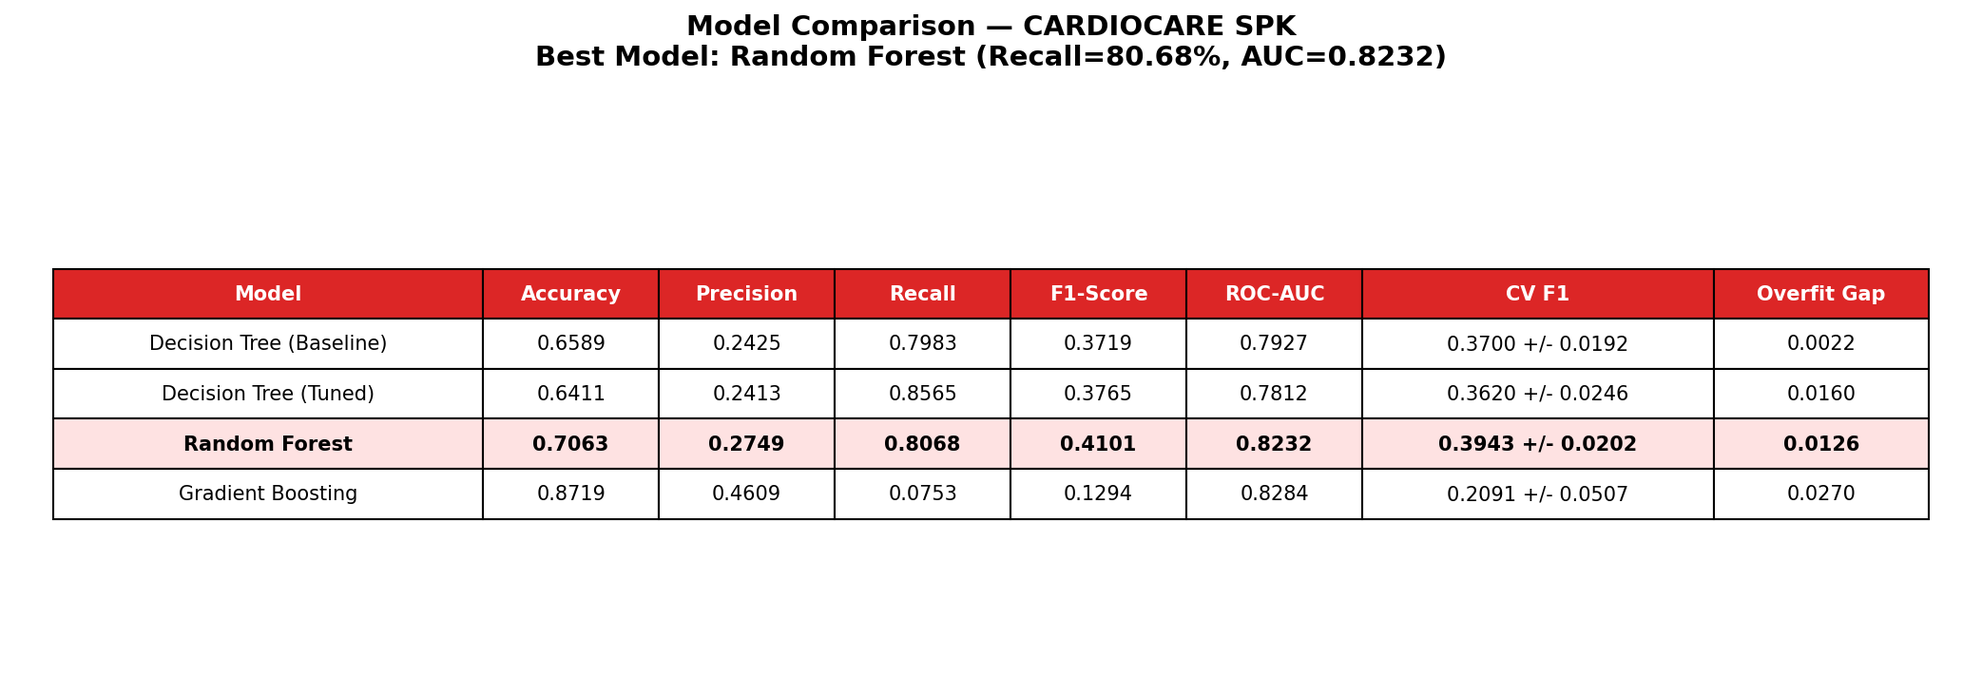
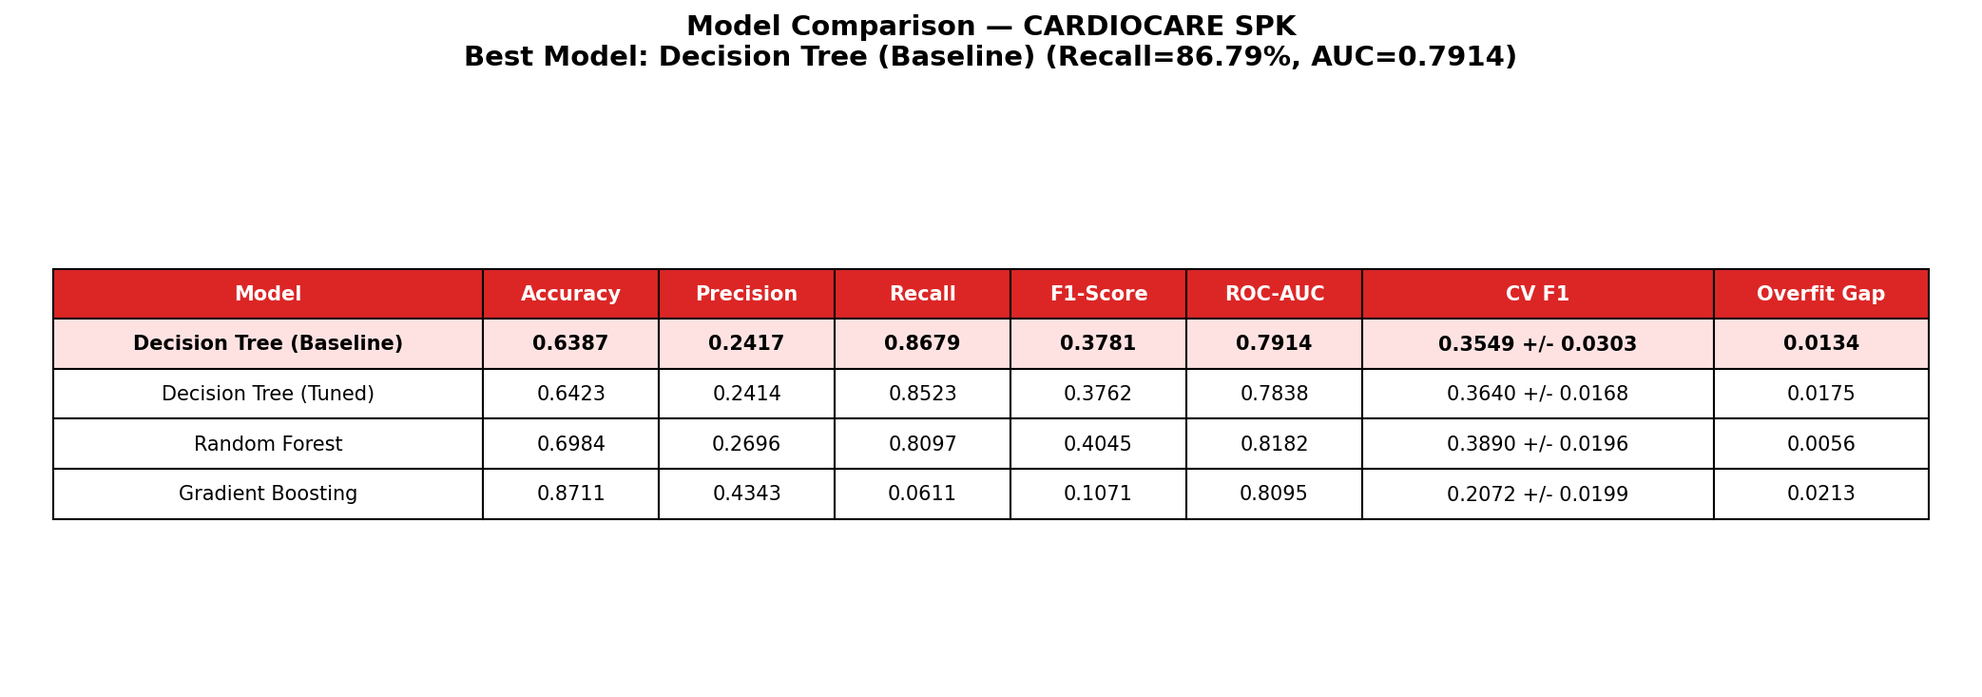
perf(model): update decision tree model with refined thresholds and structure
- Adjust model meta metrics: accuracy, precision, recall, f1_score, roc_auc
- Modify decision tree thresholds for features to improve prediction accuracy
- Restructure tree nodes for better classification performance
- Update leaf node probabilities and class assignments accordingly

Changed region(s): [[0.0, 0.6003, 0.9976, 0.7203], [0.0, 0.4502, 0.9976, 0.5703], [0.2182, 0.06, 0.7794, 0.1201]]

diff --git a/frontend/js/model.js b/frontend/js/model.js
@@ -3,18 +3,18 @@
 const FEATURE_NAMES = ["usia", "gender", "keluhanawal_sesak_dada", "bmi", "sistolik", "diastolik"];
 const CLASS_NAMES = ["Tidak Risiko (0)", "Risiko Jantung (1)"];
 const MODEL_META = {
-  "accuracy": 0.6588785046728972,
-  "precision": 0.24245038826574633,
-  "recall": 0.7982954545454546,
-  "f1_score": 0.37193911317008604,
-  "roc_auc": 0.7926650766928545,
+  "accuracy": 0.6387491013659238,
+  "precision": 0.24169303797468356,
+  "recall": 0.8678977272727273,
+  "f1_score": 0.3780940594059406,
+  "roc_auc": 0.7913599244762439,
   "train_size": 22253,
   "test_size": 5564,
   "tree_depth": 7,
   "n_leaves": 103
 };
 
-const TREE = {"feature": 0, "threshold": 38.33, "left": {"feature": 4, "threshold": 124.5, "left": {"feature": 0, "threshold": 24.18, "left": {"feature": 2, "threshold": 0.5, "left": {"feature": 0, "threshold": 11.21, "left": {"leaf": true, "class": 0, "proba": [1.0, 0.0]}, "right": {"feature": 3, "threshold": 14.34, "left": {"leaf": true, "class": 0, "proba": [0.67, 0.33]}, "right": {"feature": 4, "threshold": 82.5, "left": {"leaf": true, "class": 0, "proba": [0.67, 0.33]}, "right": {"leaf": true, "class": 0, "proba": [1.0, 0.0]}}}}, "right": {"feature": 4, "threshold": 116.5, "left": {"feature": 5, "threshold": 65.5, "left": {"leaf": true, "class": 0, "proba": [1.0, 0.0]}, "right": {"leaf": true, "class": 0, "proba": [1.0, 0.0]}}, "right": {"leaf": true, "class": 0, "proba": [0.5521, 0.4479]}}}, "right": {"feature": 1, "threshold": 0.5, "left": {"feature": 3, "threshold": 19.505, "left": {"leaf": true, "class": 0, "proba": [1.0, 0.0]}, "right": {"feature": 4, "threshold": 118.5, "left": {"feature": 0, "threshold": 29.725, "left": {"leaf": true, "class": 0, "proba": [1.0, 0.0]}, "right": {"leaf": true, "class": 0, "proba": [0.7159, 0.2841]}}, "right": {"feature": 4, "threshold": 122.5, "left": {"leaf": true, "class": 0, "proba": [0.5662, 0.4338]}, "right": {"leaf": true, "class": 0, "proba": [0.8788, 0.1212]}}}}, "right": {"feature": 3, "threshold": 20.315, "left": {"feature": 4, "threshold": 88.5, "left": {"feature": 3, "threshold": 18.92, "left": {"leaf": true, "class": 0, "proba": [0.6988, 0.3012]}, "right": {"leaf": true, "class": 1, "proba": [0.3671, 0.6329]}}, "right": {"feature": 0, "threshold": 36.005, "left": {"leaf": true, "class": 0, "proba": [0.955, 0.045]}, "right": {"leaf": true, "class": 1, "proba": [0.3859, 0.6141]}}}, "right": {"feature": 0, "threshold": 27.465, "left": {"leaf": true, "class": 0, "proba": [1.0, 0.0]}, "right": {"feature": 5, "threshold": 90.5, "left": {"leaf": true, "class": 0, "proba": [0.9742, 0.0258]}, "right": {"leaf": true, "class": 0, "proba": [0.8464, 0.1536]}}}}}}, "right": {"feature": 0, "threshold": 32.895, "left": {"feature": 4, "threshold": 134.5, "left": {"feature": 1, "threshold": 0.5, "left": {"feature": 4, "threshold": 128.5, "left": {"feature": 0, "threshold": 18.78, "left": {"leaf": true, "class": 0, "proba": [1.0, 0.0]}, "right": {"leaf": true, "class": 0, "proba": [0.5738, 0.4262]}}, "right": {"feature": 3, "threshold": 28.88, "left": {"leaf": true, "class": 0, "proba": [1.0, 0.0]}, "right": {"leaf": true, "class": 0, "proba": [0.67, 0.33]}}}, "right": {"feature": 5, "threshold": 84.5, "left": {"leaf": true, "class": 0, "proba": [1.0, 0.0]}, "right": {"feature": 3, "threshold": 30.95, "left": {"leaf": true, "class": 0, "proba": [0.8915, 0.1085]}, "right": {"leaf": true, "class": 0, "proba": [1.0, 0.0]}}}}, "right": {"feature": 3, "threshold": 23.175, "left": {"feature": 4, "threshold": 137.5, "left": {"leaf": true, "class": 0, "proba": [0.7965, 0.2035]}, "right": {"leaf": true, "class": 0, "proba": [1.0, 0.0]}}, "right": {"feature": 0, "threshold": 32.12, "left": {"feature": 0, "threshold": 30.455, "left": {"leaf": true, "class": 0, "proba": [0.7018, 0.2982]}, "right": {"leaf": true, "class": 1, "proba": [0.3618, 0.6382]}}, "right": {"feature": 0, "threshold": 32.25, "left": {"leaf": true, "class": 0, "proba": [1.0, 0.0]}, "right": {"leaf": true, "class": 0, "proba": [1.0, 0.0]}}}}}, "right": {"feature": 3, "threshold": 26.38, "left": {"feature": 5, "threshold": 89.5, "left": {"feature": 0, "threshold": 33.49, "left": {"leaf": true, "class": 0, "proba": [0.67, 0.33]}, "right": {"leaf": true, "class": 0, "proba": [1.0, 0.0]}}, "right": {"feature": 4, "threshold": 149.0, "left": {"feature": 3, "threshold": 23.825, "left": {"leaf": true, "class": 1, "proba": [0.3797, 0.6203]}, "right": {"leaf": true, "class": 0, "proba": [1.0, 0.0]}}, "right": {"leaf": true, "class": 0, "proba": [1.0, 0.0]}}}, "right": {"feature": 1, "threshold": 0.5, "left": {"feature": 4, "threshold": 146.5, "left": {"feature": 4, "threshold": 130.5, "left": {"leaf": true, "class": 1, "proba": [0.2582, 0.7418]}, "right": {"leaf": true, "class": 0, "proba": [0.5794, 0.4206]}}, "right": {"leaf": true, "class": 1, "proba": [0.1142, 0.8858]}}, "right": {"feature": 3, "threshold": 28.89, "left": {"feature": 3, "threshold": 26.92, "left": {"leaf": true, "class": 0, "proba": [0.67, 0.33]}, "right": {"leaf": true, "class": 0, "proba": [1.0, 0.0]}}, "right": {"feature": 0, "threshold": 35.09, "left": {"leaf": true, "class": 0, "proba": [0.7114, 0.2886]}, "right": {"leaf": true, "class": 1, "proba": [0.4361, 0.5639]}}}}}}}, "right": {"feature": 1, "threshold": 0.5, "left": {"feature": 3, "threshold": 25.795, "left": {"feature": 0, "threshold": 60.265, "left": {"feature": 4, "threshold": 179.5, "left": {"feature": 5, "threshold": 91.5, "left": {"feature": 0, "threshold": 43.745, "left": {"leaf": true, "class": 0, "proba": [0.6602, 0.3398]}, "right": {"leaf": true, "class": 1, "proba": [0.4324, 0.5676]}}, "right": {"feature": 0, "threshold": 48.78, "left": {"leaf": true, "class": 1, "proba": [0.4233, 0.5767]}, "right": {"leaf": true, "class": 1, "proba": [0.2264, 0.7736]}}}, "right": {"feature": 5, "threshold": 94.5, "left": {"leaf": true, "class": 0, "proba": [1.0, 0.0]}, "right": {"feature": 3, "threshold": 23.745, "left": {"leaf": true, "class": 1, "proba": [0.4492, 0.5508]}, "right": {"leaf": true, "class": 0, "proba": [1.0, 0.0]}}}}, "right": {"feature": 3, "threshold": 23.02, "left": {"feature": 5, "threshold": 77.5, "left": {"feature": 0, "threshold": 70.69, "left": {"leaf": true, "class": 1, "proba": [0.1976, 0.8024]}, "right": {"leaf": true, "class": 1, "proba": [0.343, 0.657]}}, "right": {"feature": 4, "threshold": 129.5, "left": {"leaf": true, "class": 1, "proba": [0.4796, 0.5204]}, "right": {"leaf": true, "class": 1, "proba": [0.2907, 0.7093]}}}, "right": {"feature": 0, "threshold": 71.73, "left": {"feature": 0, "threshold": 60.405, "left": {"leaf": true, "class": 1, "proba": [0.451, 0.549]}, "right": {"leaf": true, "class": 1, "proba": [0.2019, 0.7981]}}, "right": {"feature": 0, "threshold": 75.13, "left": {"leaf": true, "class": 0, "proba": [0.555, 0.445]}, "right": {"leaf": true, "class": 1, "proba": [0.2059, 0.7941]}}}}}, "right": {"feature": 3, "threshold": 28.99, "left": {"feature": 0, "threshold": 55.165, "left": {"feature": 4, "threshold": 121.5, "left": {"feature": 4, "threshold": 118.5, "left": {"leaf": true, "class": 0, "proba": [0.5958, 0.4042]}, "right": {"leaf": true, "class": 0, "proba": [1.0, 0.0]}}, "right": {"feature": 5, "threshold": 73.0, "left": {"leaf": true, "class": 0, "proba": [1.0, 0.0]}, "right": {"leaf": true, "class": 1, "proba": [0.3142, 0.6858]}}}, "right": {"feature": 3, "threshold": 28.395, "left": {"feature": 5, "threshold": 91.5, "left": {"leaf": true, "class": 1, "proba": [0.2324, 0.7676]}, "right": {"leaf": true, "class": 1, "proba": [0.107, 0.893]}}, "right": {"feature": 0, "threshold": 69.425, "left": {"leaf": true, "class": 0, "proba": [0.5521, 0.4479]}, "right": {"leaf": true, "class": 1, "proba": [0.246, 0.754]}}}}, "right": {"feature": 0, "threshold": 71.295, "left": {"feature": 0, "threshold": 62.555, "left": {"feature": 5, "threshold": 97.5, "left": {"leaf": true, "class": 1, "proba": [0.2183, 0.7817]}, "right": {"leaf": true, "class": 1, "proba": [0.1176, 0.8824]}}, "right": {"feature": 0, "threshold": 63.815, "left": {"leaf": true, "class": 1, "proba": [0.0501, 0.9499]}, "right": {"leaf": true, "class": 1, "proba": [0.162, 0.838]}}}, "right": {"feature": 0, "threshold": 74.715, "left": {"leaf": true, "class": 0, "proba": [0.6251, 0.3749]}, "right": {"leaf": true, "class": 1, "proba": [0.1991, 0.8009]}}}}}, "right": {"feature": 3, "threshold": 23.435, "left": {"feature": 0, "threshold": 55.315, "left": {"feature": 4, "threshold": 130.5, "left": {"feature": 5, "threshold": 73.5, "left": {"feature": 0, "threshold": 41.25, "left": {"leaf": true, "class": 0, "proba": [1.0, 0.0]}, "right": {"leaf": true, "class": 0, "proba": [0.5775, 0.4225]}}, "right": {"feature": 3, "threshold": 21.89, "left": {"leaf": true, "class": 0, "proba": [0.75, 0.25]}, "right": {"leaf": true, "class": 0, "proba": [0.9069, 0.0931]}}}, "right": {"feature": 5, "threshold": 67.5, "left": {"leaf": true, "class": 0, "proba": [1.0, 0.0]}, "right": {"feature": 0, "threshold": 50.065, "left": {"leaf": true, "class": 0, "proba": [0.6777, 0.3223]}, "right": {"leaf": true, "class": 1, "proba": [0.4412, 0.5588]}}}}, "right": {"feature": 3, "threshold": 22.87, "left": {"feature": 0, "threshold": 66.42, "left": {"feature": 2, "threshold": 0.5, "left": {"leaf": true, "class": 0, "proba": [0.514, 0.486]}, "right": {"leaf": true, "class": 1, "proba": [0.2391, 0.7609]}}, "right": {"feature": 0, "threshold": 67.99, "left": {"leaf": true, "class": 1, "proba": [0.2706, 0.7294]}, "right": {"leaf": true, "class": 1, "proba": [0.4144, 0.5856]}}}, "right": {"feature": 4, "threshold": 107.5, "left": {"feature": 3, "threshold": 23.335, "left": {"leaf": true, "class": 1, "proba": [0.1093, 0.8907]}, "right": {"leaf": true, "class": 1, "proba": [0.2418, 0.7582]}}, "right": {"feature": 4, "threshold": 146.5, "left": {"leaf": true, "class": 0, "proba": [0.7231, 0.2769]}, "right": {"leaf": true, "class": 1, "proba": [0.2469, 0.7531]}}}}}, "right": {"feature": 0, "threshold": 50.585, "left": {"feature": 5, "threshold": 95.5, "left": {"feature": 4, "threshold": 124.5, "left": {"feature": 3, "threshold": 29.675, "left": {"leaf": true, "class": 0, "proba": [0.8069, 0.1931]}, "right": {"leaf": true, "class": 0, "proba": [0.5886, 0.4114]}}, "right": {"feature": 2, "threshold": 0.5, "left": {"leaf": true, "class": 0, "proba": [0.5866, 0.4134]}, "right": {"leaf": true, "class": 1, "proba": [0.1946, 0.8054]}}}, "right": {"feature": 3, "threshold": 24.435, "left": {"leaf": true, "class": 0, "proba": [1.0, 0.0]}, "right": {"feature": 4, "threshold": 146.5, "left": {"leaf": true, "class": 1, "proba": [0.4088, 0.5912]}, "right": {"leaf": true, "class": 1, "proba": [0.208, 0.792]}}}}, "right": {"feature": 4, "threshold": 140.5, "left": {"feature": 0, "threshold": 67.64, "left": {"feature": 3, "threshold": 28.885, "left": {"leaf": true, "class": 1, "proba": [0.4356, 0.5644]}, "right": {"leaf": true, "class": 1, "proba": [0.2978, 0.7022]}}, "right": {"feature": 5, "threshold": 79.5, "left": {"leaf": true, "class": 1, "proba": [0.216, 0.784]}, "right": {"leaf": true, "class": 1, "proba": [0.3326, 0.6674]}}}, "right": {"feature": 0, "threshold": 67.605, "left": {"feature": 5, "threshold": 71.5, "left": {"leaf": true, "class": 0, "proba": [0.723, 0.277]}, "right": {"leaf": true, "class": 1, "proba": [0.2582, 0.7418]}}, "right": {"feature": 3, "threshold": 24.865, "left": {"leaf": true, "class": 1, "proba": [0.2371, 0.7629]}, "right": {"leaf": true, "class": 1, "proba": [0.1331, 0.8669]}}}}}}}};
+const TREE = {"feature": 0, "threshold": 38.5, "left": {"feature": 4, "threshold": 124.5, "left": {"feature": 0, "threshold": 26.5, "left": {"feature": 0, "threshold": 10.5, "left": {"leaf": true, "class": 0, "proba": [1.0, 0.0]}, "right": {"feature": 2, "threshold": 0.5, "left": {"feature": 3, "threshold": 21.5, "left": {"feature": 4, "threshold": 119.5, "left": {"leaf": true, "class": 0, "proba": [0.9746, 0.0254]}, "right": {"leaf": true, "class": 0, "proba": [0.8773, 0.1227]}}, "right": {"feature": 1, "threshold": 0.5, "left": {"leaf": true, "class": 0, "proba": [0.9718, 0.0282]}, "right": {"leaf": true, "class": 0, "proba": [1.0, 0.0]}}}, "right": {"feature": 4, "threshold": 116.5, "left": {"feature": 3, "threshold": 20.5, "left": {"leaf": true, "class": 0, "proba": [1.0, 0.0]}, "right": {"leaf": true, "class": 0, "proba": [1.0, 0.0]}}, "right": {"leaf": true, "class": 0, "proba": [0.5662, 0.4338]}}}}, "right": {"feature": 1, "threshold": 0.5, "left": {"feature": 3, "threshold": 22.5, "left": {"feature": 5, "threshold": 87.5, "left": {"leaf": true, "class": 0, "proba": [1.0, 0.0]}, "right": {"leaf": true, "class": 0, "proba": [0.5794, 0.4206]}}, "right": {"feature": 3, "threshold": 32.5, "left": {"feature": 4, "threshold": 119.5, "left": {"leaf": true, "class": 0, "proba": [0.7173, 0.2827]}, "right": {"leaf": true, "class": 0, "proba": [0.5313, 0.4687]}}, "right": {"leaf": true, "class": 0, "proba": [1.0, 0.0]}}}, "right": {"feature": 3, "threshold": 20.5, "left": {"feature": 4, "threshold": 88.5, "left": {"leaf": true, "class": 1, "proba": [0.3813, 0.6187]}, "right": {"feature": 0, "threshold": 33.5, "left": {"leaf": true, "class": 0, "proba": [1.0, 0.0]}, "right": {"leaf": true, "class": 0, "proba": [0.6444, 0.3556]}}}, "right": {"feature": 5, "threshold": 90.5, "left": {"feature": 4, "threshold": 115.5, "left": {"leaf": true, "class": 0, "proba": [0.9626, 0.0374]}, "right": {"leaf": true, "class": 0, "proba": [1.0, 0.0]}}, "right": {"feature": 3, "threshold": 26.5, "left": {"leaf": true, "class": 0, "proba": [0.5521, 0.4479]}, "right": {"leaf": true, "class": 0, "proba": [1.0, 0.0]}}}}}}, "right": {"feature": 0, "threshold": 32.5, "left": {"feature": 4, "threshold": 134.5, "left": {"feature": 1, "threshold": 0.5, "left": {"feature": 4, "threshold": 128.5, "left": {"feature": 5, "threshold": 74.5, "left": {"leaf": true, "class": 0, "proba": [1.0, 0.0]}, "right": {"leaf": true, "class": 0, "proba": [0.5622, 0.4378]}}, "right": {"feature": 5, "threshold": 91.5, "left": {"leaf": true, "class": 0, "proba": [1.0, 0.0]}, "right": {"leaf": true, "class": 0, "proba": [0.685, 0.315]}}}, "right": {"feature": 5, "threshold": 84.5, "left": {"leaf": true, "class": 0, "proba": [1.0, 0.0]}, "right": {"feature": 5, "threshold": 95.5, "left": {"leaf": true, "class": 0, "proba": [0.8915, 0.1085]}, "right": {"leaf": true, "class": 0, "proba": [1.0, 0.0]}}}}, "right": {"feature": 3, "threshold": 22.5, "left": {"feature": 4, "threshold": 137.5, "left": {"leaf": true, "class": 0, "proba": [0.7693, 0.2307]}, "right": {"leaf": true, "class": 0, "proba": [1.0, 0.0]}}, "right": {"feature": 5, "threshold": 80.5, "left": {"leaf": true, "class": 0, "proba": [1.0, 0.0]}, "right": {"feature": 0, "threshold": 31.5, "left": {"leaf": true, "class": 0, "proba": [0.5876, 0.4124]}, "right": {"leaf": true, "class": 0, "proba": [0.8766, 0.1234]}}}}}, "right": {"feature": 3, "threshold": 26.5, "left": {"feature": 0, "threshold": 33.5, "left": {"feature": 4, "threshold": 130.5, "left": {"leaf": true, "class": 1, "proba": [0.3031, 0.6969]}, "right": {"leaf": true, "class": 0, "proba": [0.685, 0.315]}}, "right": {"feature": 5, "threshold": 86.5, "left": {"leaf": true, "class": 0, "proba": [1.0, 0.0]}, "right": {"feature": 4, "threshold": 149.0, "left": {"leaf": true, "class": 0, "proba": [0.6378, 0.3622]}, "right": {"leaf": true, "class": 0, "proba": [1.0, 0.0]}}}}, "right": {"feature": 1, "threshold": 0.5, "left": {"feature": 4, "threshold": 141.5, "left": {"feature": 4, "threshold": 130.5, "left": {"leaf": true, "class": 1, "proba": [0.3522, 0.6478]}, "right": {"leaf": true, "class": 0, "proba": [1.0, 0.0]}}, "right": {"leaf": true, "class": 1, "proba": [0.162, 0.838]}}, "right": {"feature": 5, "threshold": 83.5, "left": {"feature": 0, "threshold": 33.5, "left": {"leaf": true, "class": 0, "proba": [0.67, 0.33]}, "right": {"leaf": true, "class": 0, "proba": [1.0, 0.0]}}, "right": {"feature": 0, "threshold": 34.5, "left": {"leaf": true, "class": 0, "proba": [0.8024, 0.1976]}, "right": {"leaf": true, "class": 1, "proba": [0.4876, 0.5124]}}}}}}}, "right": {"feature": 1, "threshold": 0.5, "left": {"feature": 3, "threshold": 26.5, "left": {"feature": 0, "threshold": 60.5, "left": {"feature": 4, "threshold": 179.5, "left": {"feature": 5, "threshold": 91.5, "left": {"feature": 4, "threshold": 156.5, "left": {"leaf": true, "class": 1, "proba": [0.4288, 0.5712]}, "right": {"leaf": true, "class": 0, "proba": [0.7404, 0.2596]}}, "right": {"feature": 0, "threshold": 48.5, "left": {"leaf": true, "class": 1, "proba": [0.4072, 0.5928]}, "right": {"leaf": true, "class": 1, "proba": [0.2093, 0.7907]}}}, "right": {"feature": 5, "threshold": 94.5, "left": {"leaf": true, "class": 0, "proba": [1.0, 0.0]}, "right": {"feature": 4, "threshold": 208.5, "left": {"leaf": true, "class": 1, "proba": [0.4743, 0.5257]}, "right": {"leaf": true, "class": 0, "proba": [1.0, 0.0]}}}}, "right": {"feature": 0, "threshold": 70.5, "left": {"feature": 3, "threshold": 23.5, "left": {"feature": 5, "threshold": 77.5, "left": {"leaf": true, "class": 1, "proba": [0.2013, 0.7987]}, "right": {"leaf": true, "class": 1, "proba": [0.3431, 0.6569]}}, "right": {"feature": 4, "threshold": 146.5, "left": {"leaf": true, "class": 1, "proba": [0.2146, 0.7854]}, "right": {"leaf": true, "class": 1, "proba": [0.1266, 0.8734]}}}, "right": {"feature": 0, "threshold": 76.5, "left": {"feature": 5, "threshold": 51.5, "left": {"leaf": true, "class": 0, "proba": [1.0, 0.0]}, "right": {"leaf": true, "class": 1, "proba": [0.4268, 0.5732]}}, "right": {"feature": 4, "threshold": 134.5, "left": {"leaf": true, "class": 1, "proba": [0.3302, 0.6698]}, "right": {"leaf": true, "class": 1, "proba": [0.1486, 0.8514]}}}}}, "right": {"feature": 4, "threshold": 129.5, "left": {"feature": 2, "threshold": 0.5, "left": {"feature": 0, "threshold": 44.5, "left": {"feature": 3, "threshold": 30.5, "left": {"leaf": true, "class": 0, "proba": [0.8271, 0.1729]}, "right": {"leaf": true, "class": 1, "proba": [0.2738, 0.7262]}}, "right": {"feature": 5, "threshold": 87.5, "left": {"leaf": true, "class": 1, "proba": [0.2643, 0.7357]}, "right": {"leaf": true, "class": 1, "proba": [0.4652, 0.5348]}}}, "right": {"feature": 4, "threshold": 120.5, "left": {"leaf": true, "class": 1, "proba": [0.2248, 0.7752]}, "right": {"leaf": true, "class": 1, "proba": [0.0618, 0.9382]}}}, "right": {"feature": 3, "threshold": 33.5, "left": {"feature": 5, "threshold": 97.5, "left": {"feature": 4, "threshold": 158.5, "left": {"leaf": true, "class": 1, "proba": [0.2089, 0.7911]}, "right": {"leaf": true, "class": 1, "proba": [0.3528, 0.6472]}}, "right": {"feature": 5, "threshold": 103.5, "left": {"leaf": true, "class": 1, "proba": [0.1129, 0.8871]}, "right": {"leaf": true, "class": 1, "proba": [0.2291, 0.7709]}}}, "right": {"feature": 5, "threshold": 97.5, "left": {"feature": 0, "threshold": 55.5, "left": {"leaf": true, "class": 1, "proba": [0.2042, 0.7958]}, "right": {"leaf": true, "class": 1, "proba": [0.095, 0.905]}}, "right": {"leaf": true, "class": 1, "proba": [0.0627, 0.9373]}}}}}, "right": {"feature": 3, "threshold": 23.5, "left": {"feature": 0, "threshold": 54.5, "left": {"feature": 4, "threshold": 130.5, "left": {"feature": 5, "threshold": 76.5, "left": {"feature": 0, "threshold": 40.5, "left": {"leaf": true, "class": 0, "proba": [1.0, 0.0]}, "right": {"leaf": true, "class": 0, "proba": [0.6516, 0.3484]}}, "right": {"feature": 3, "threshold": 21.5, "left": {"leaf": true, "class": 0, "proba": [0.7436, 0.2564]}, "right": {"leaf": true, "class": 0, "proba": [0.8939, 0.1061]}}}, "right": {"feature": 5, "threshold": 67.5, "left": {"leaf": true, "class": 0, "proba": [1.0, 0.0]}, "right": {"feature": 2, "threshold": 0.5, "left": {"leaf": true, "class": 0, "proba": [0.5918, 0.4082]}, "right": {"leaf": true, "class": 1, "proba": [0.2248, 0.7752]}}}}, "right": {"feature": 3, "threshold": 22.5, "left": {"feature": 0, "threshold": 65.5, "left": {"feature": 3, "threshold": 16.5, "left": {"leaf": true, "class": 0, "proba": [0.8464, 0.1536]}, "right": {"leaf": true, "class": 1, "proba": [0.4924, 0.5076]}}, "right": {"feature": 4, "threshold": 185.5, "left": {"leaf": true, "class": 1, "proba": [0.3717, 0.6283]}, "right": {"leaf": true, "class": 0, "proba": [1.0, 0.0]}}}, "right": {"feature": 4, "threshold": 147.5, "left": {"feature": 4, "threshold": 119.5, "left": {"leaf": true, "class": 1, "proba": [0.2945, 0.7055]}, "right": {"leaf": true, "class": 0, "proba": [0.7322, 0.2678]}}, "right": {"feature": 5, "threshold": 99.5, "left": {"leaf": true, "class": 1, "proba": [0.3331, 0.6669]}, "right": {"leaf": true, "class": 1, "proba": [0.0733, 0.9267]}}}}}, "right": {"feature": 0, "threshold": 50.5, "left": {"feature": 5, "threshold": 95.5, "left": {"feature": 4, "threshold": 124.5, "left": {"feature": 3, "threshold": 29.5, "left": {"leaf": true, "class": 0, "proba": [0.8038, 0.1962]}, "right": {"leaf": true, "class": 0, "proba": [0.5918, 0.4082]}}, "right": {"feature": 2, "threshold": 0.5, "left": {"leaf": true, "class": 0, "proba": [0.5746, 0.4254]}, "right": {"leaf": true, "class": 1, "proba": [0.184, 0.816]}}}, "right": {"feature": 4, "threshold": 146.5, "left": {"feature": 3, "threshold": 27.5, "left": {"leaf": true, "class": 0, "proba": [0.6146, 0.3854]}, "right": {"leaf": true, "class": 1, "proba": [0.3671, 0.6329]}}, "right": {"feature": 0, "threshold": 44.5, "left": {"leaf": true, "class": 1, "proba": [0.2984, 0.7016]}, "right": {"leaf": true, "class": 1, "proba": [0.1697, 0.8303]}}}}, "right": {"feature": 4, "threshold": 140.5, "left": {"feature": 0, "threshold": 67.5, "left": {"feature": 3, "threshold": 28.5, "left": {"leaf": true, "class": 1, "proba": [0.4353, 0.5647]}, "right": {"leaf": true, "class": 1, "proba": [0.3143, 0.6857]}}, "right": {"feature": 5, "threshold": 79.5, "left": {"leaf": true, "class": 1, "proba": [0.2186, 0.7814]}, "right": {"leaf": true, "class": 1, "proba": [0.3326, 0.6674]}}}, "right": {"feature": 0, "threshold": 61.5, "left": {"feature": 5, "threshold": 95.5, "left": {"leaf": true, "class": 1, "proba": [0.3671, 0.6329]}, "right": {"leaf": true, "class": 1, "proba": [0.1768, 0.8232]}}, "right": {"feature": 5, "threshold": 69.5, "left": {"leaf": true, "class": 1, "proba": [0.4001, 0.5999]}, "right": {"leaf": true, "class": 1, "proba": [0.1876, 0.8124]}}}}}}}};
 
 function predict(features) {
     // features: [usia, gender, keluhanawal_sesak_dada, bmi, sistolik, diastolik]

diff --git a/frontend/src/components/Sidebar.jsx b/frontend/src/components/Sidebar.jsx
@@ -1,4 +1,3 @@
-import React from 'react';
 import { Activity, ShieldCheck, HeartPulse, LayoutDashboard, Settings, History } from 'lucide-react';
 import { motion } from 'framer-motion';
 
@@ -50,12 +49,12 @@ export default function Sidebar() {
           <div>
             <div className="flex justify-between text-sm mb-1">
               <span className="text-slate-200">Akurasi</span>
-              <span className="text-cyan-neon font-bold">93.44%</span>
+              <span className="text-cyan-neon font-bold">63.87%</span>
             </div>
             <div className="w-full bg-medical-blue-900/50 rounded-full h-1.5 border border-medical-blue-700">
               <motion.div 
                 initial={{ width: 0 }}
-                animate={{ width: '93.44%' }}
+                animate={{ width: '63.87%' }}
                 transition={{ duration: 1.5, delay: 0.5 }}
                 className="bg-cyan-neon h-1.5 rounded-full shadow-[0_0_8px_rgba(0,240,255,0.8)]"
               ></motion.div>
@@ -65,12 +64,12 @@ export default function Sidebar() {
           <div>
             <div className="flex justify-between text-sm mb-1">
               <span className="text-slate-200">Presisi</span>
-              <span className="text-cyan-neon/80 font-bold">91.20%</span>
+              <span className="text-cyan-neon/80 font-bold">24.17%</span>
             </div>
             <div className="w-full bg-medical-blue-900/50 rounded-full h-1.5 border border-medical-blue-700">
               <motion.div 
                 initial={{ width: 0 }}
-                animate={{ width: '91.20%' }}
+                animate={{ width: '24.17%' }}
                 transition={{ duration: 1.5, delay: 0.7 }}
                 className="bg-cyan-neon/80 h-1.5 rounded-full"
               ></motion.div>
@@ -80,12 +79,12 @@ export default function Sidebar() {
           <div>
             <div className="flex justify-between text-sm mb-1">
               <span className="text-slate-200">Recall</span>
-              <span className="text-cyan-neon/80 font-bold">94.10%</span>
+              <span className="text-cyan-neon/80 font-bold">86.79%</span>
             </div>
             <div className="w-full bg-medical-blue-900/50 rounded-full h-1.5 border border-medical-blue-700">
               <motion.div 
                 initial={{ width: 0 }}
-                animate={{ width: '94.10%' }}
+                animate={{ width: '86.79%' }}
                 transition={{ duration: 1.5, delay: 0.9 }}
                 className="bg-cyan-neon/80 h-1.5 rounded-full"
               ></motion.div>
